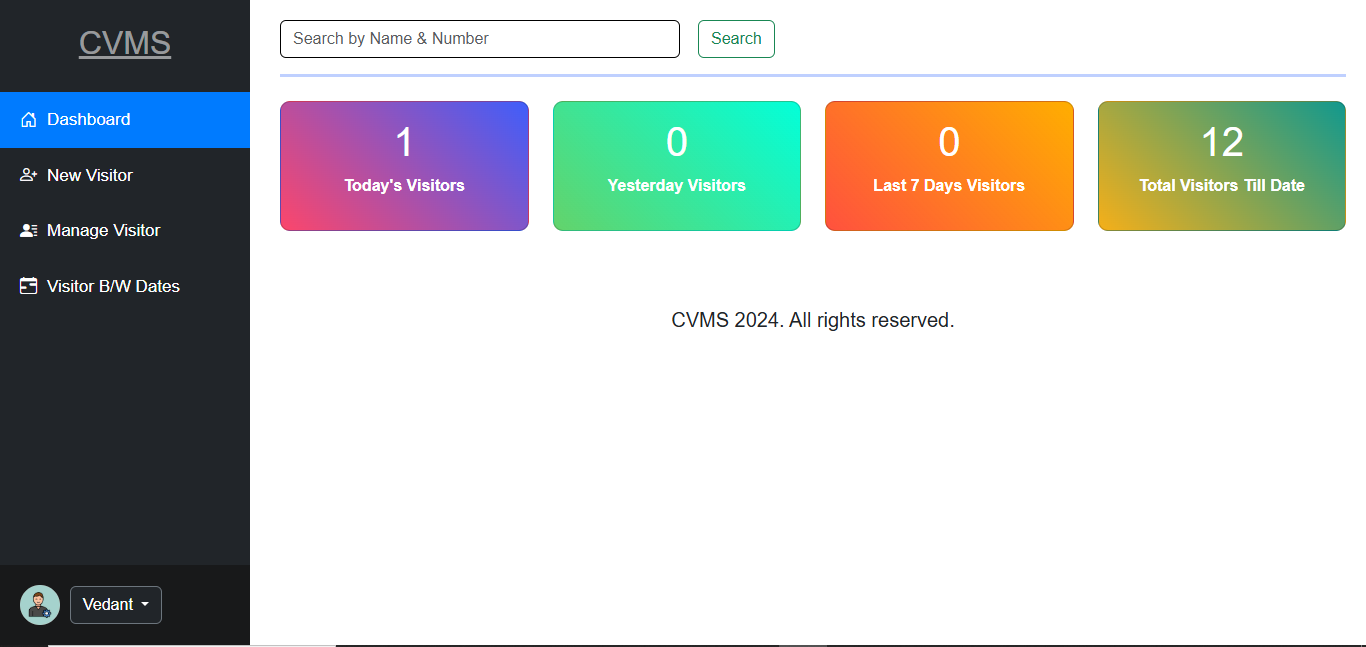
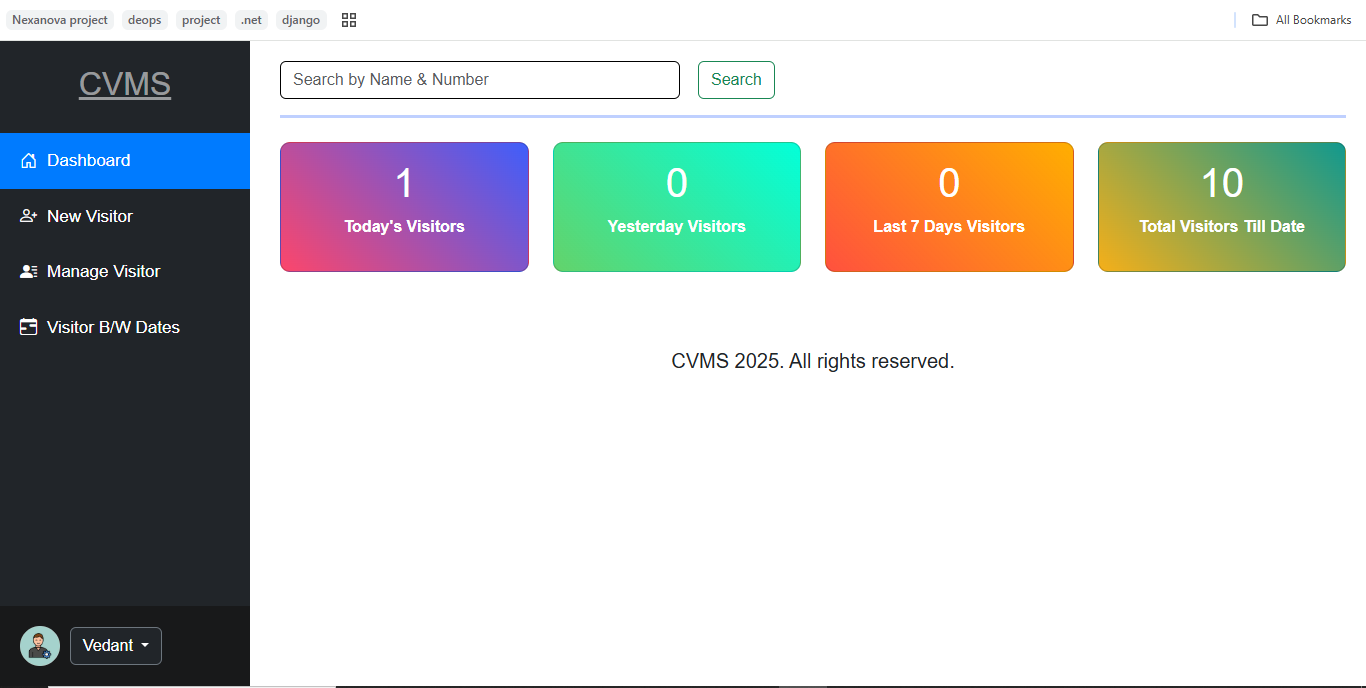
new

diff --git a/app/templates/dashboard.html b/app/templates/dashboard.html
@@ -221,7 +221,7 @@
             </div>
 
             <footer>
-                <p>CVMS 2024. All rights reserved.</p>
+                <p>CVMS 2025. All rights reserved.</p>
             </footer>
         </div>
     </div>
